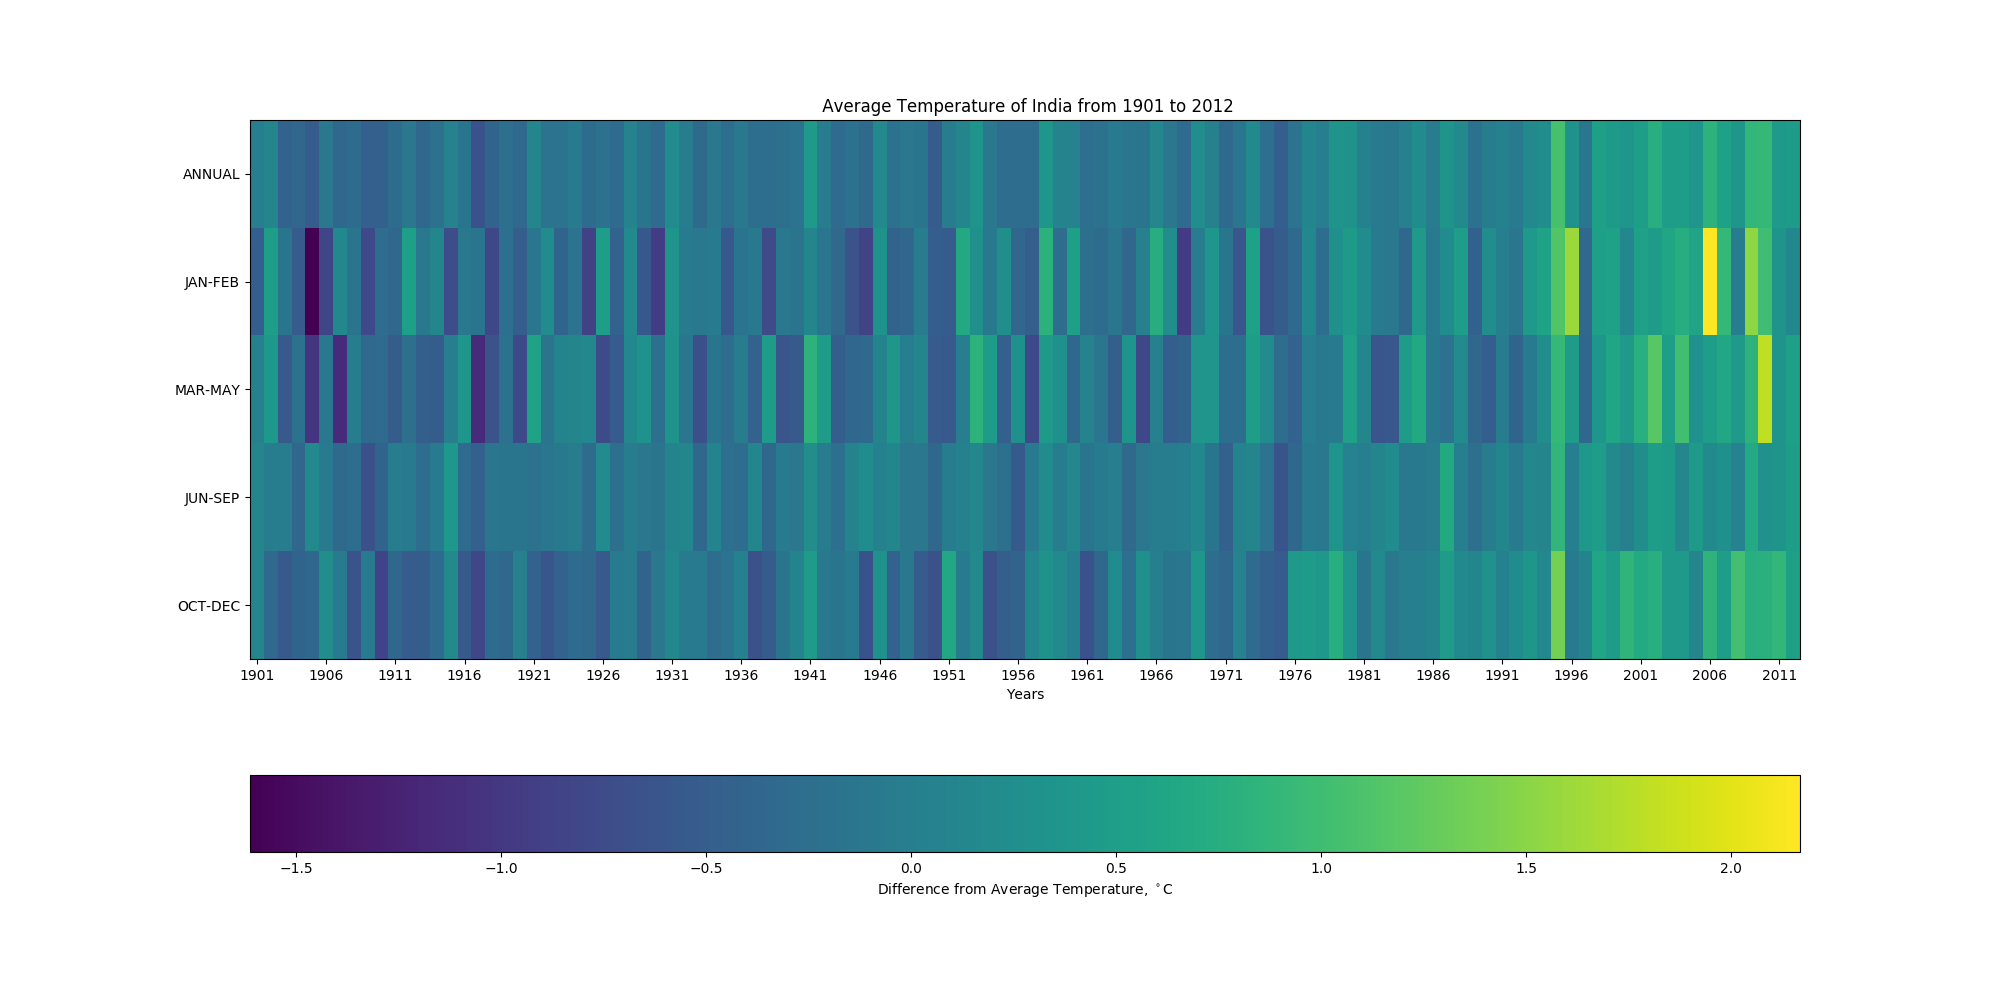
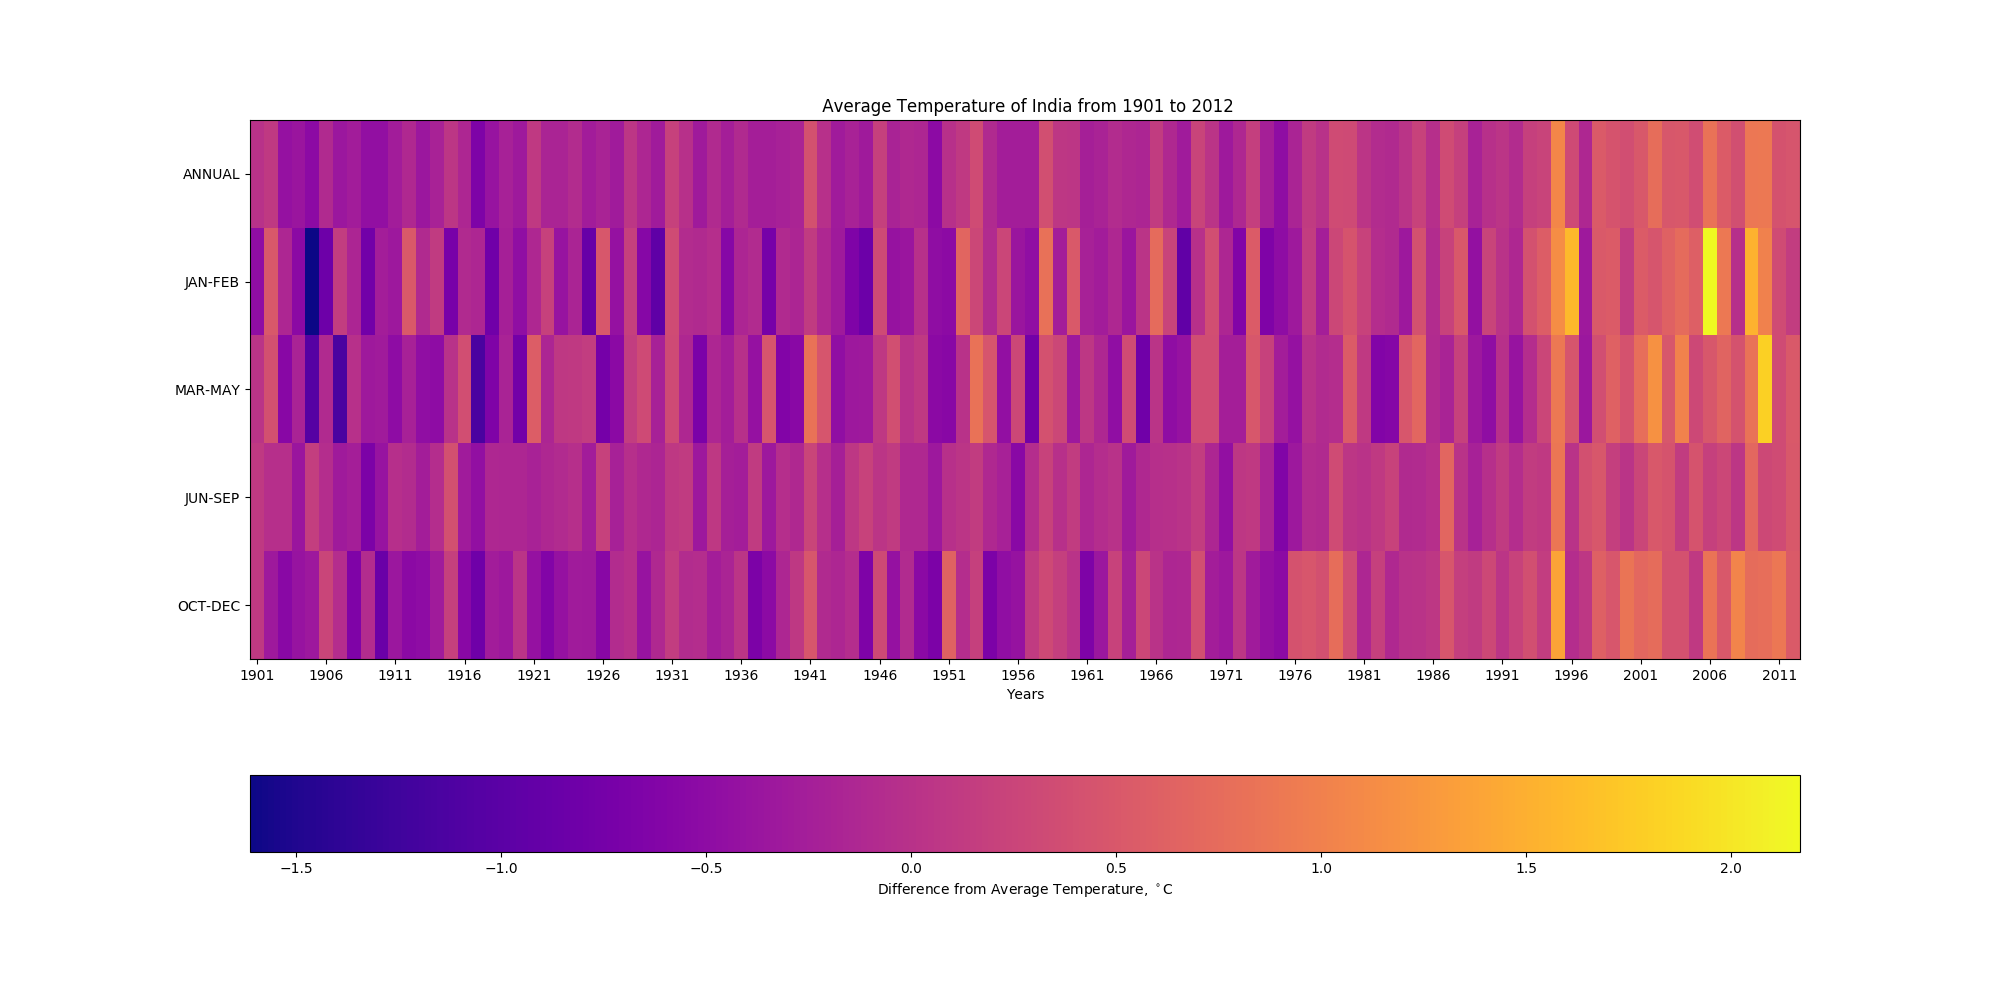
Colormap changed to plasma

diff --git a/avg-temp/viz.py b/avg-temp/viz.py
@@ -56,7 +56,7 @@ for T in fourthQuarter:
 # Plotting
 fig = plt.figure(figsize=(20,10))
 ax = fig.add_subplot(111)
-im = ax.imshow(heatmap, interpolation='nearest', cmap="viridis", aspect="auto")
+im = ax.imshow(heatmap, interpolation='nearest', cmap="plasma", aspect="auto")
 ax.set_yticks(range(5))
 ax.set_yticklabels(['ANNUAL','JAN-FEB','MAR-MAY','JUN-SEP','OCT-DEC'])
 years = np.array(range(0, 112, 5))
